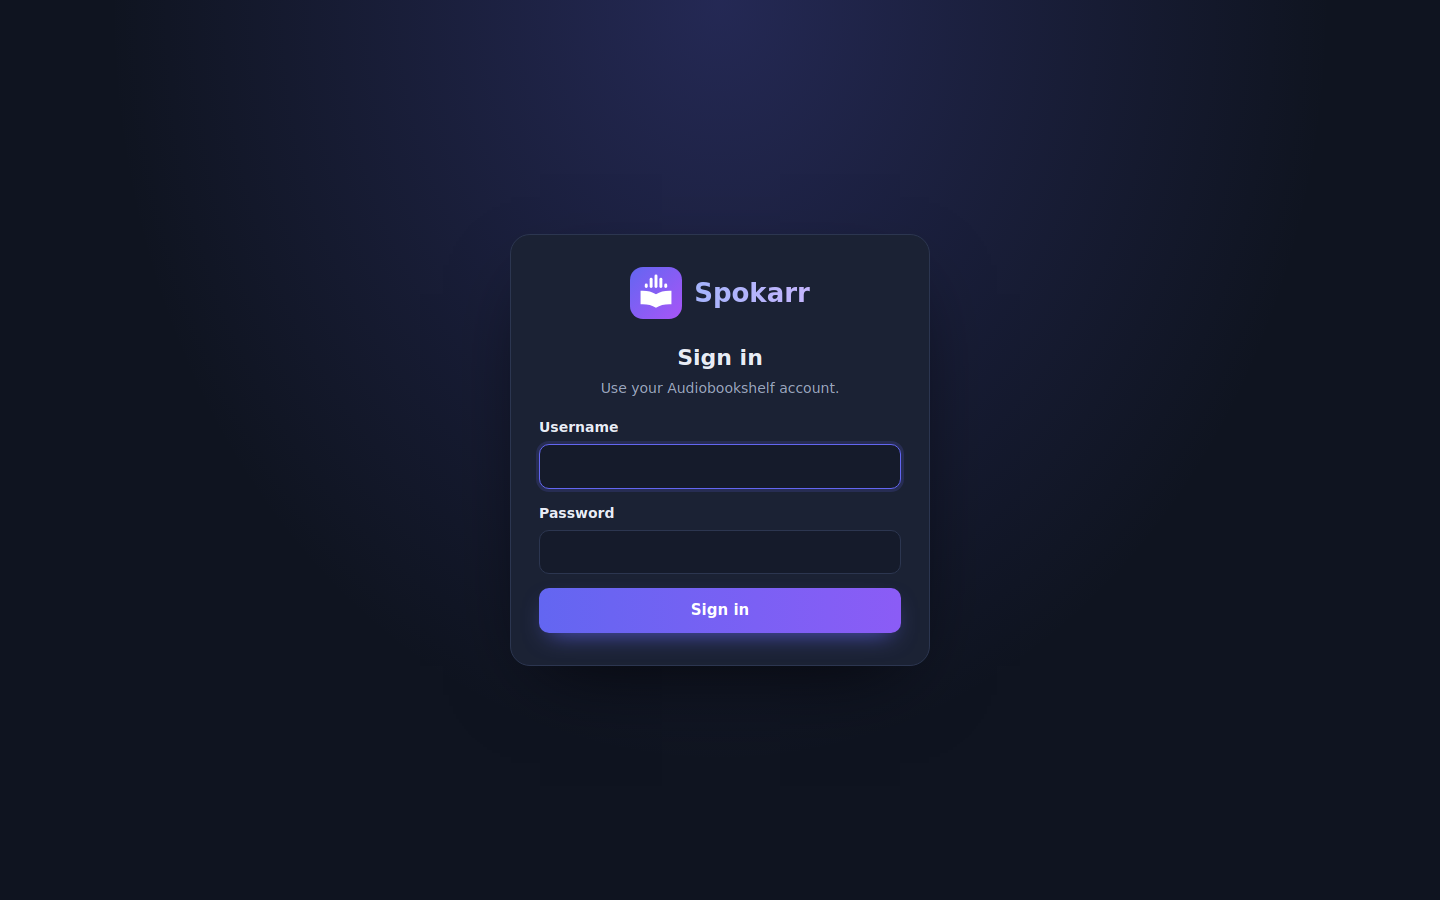
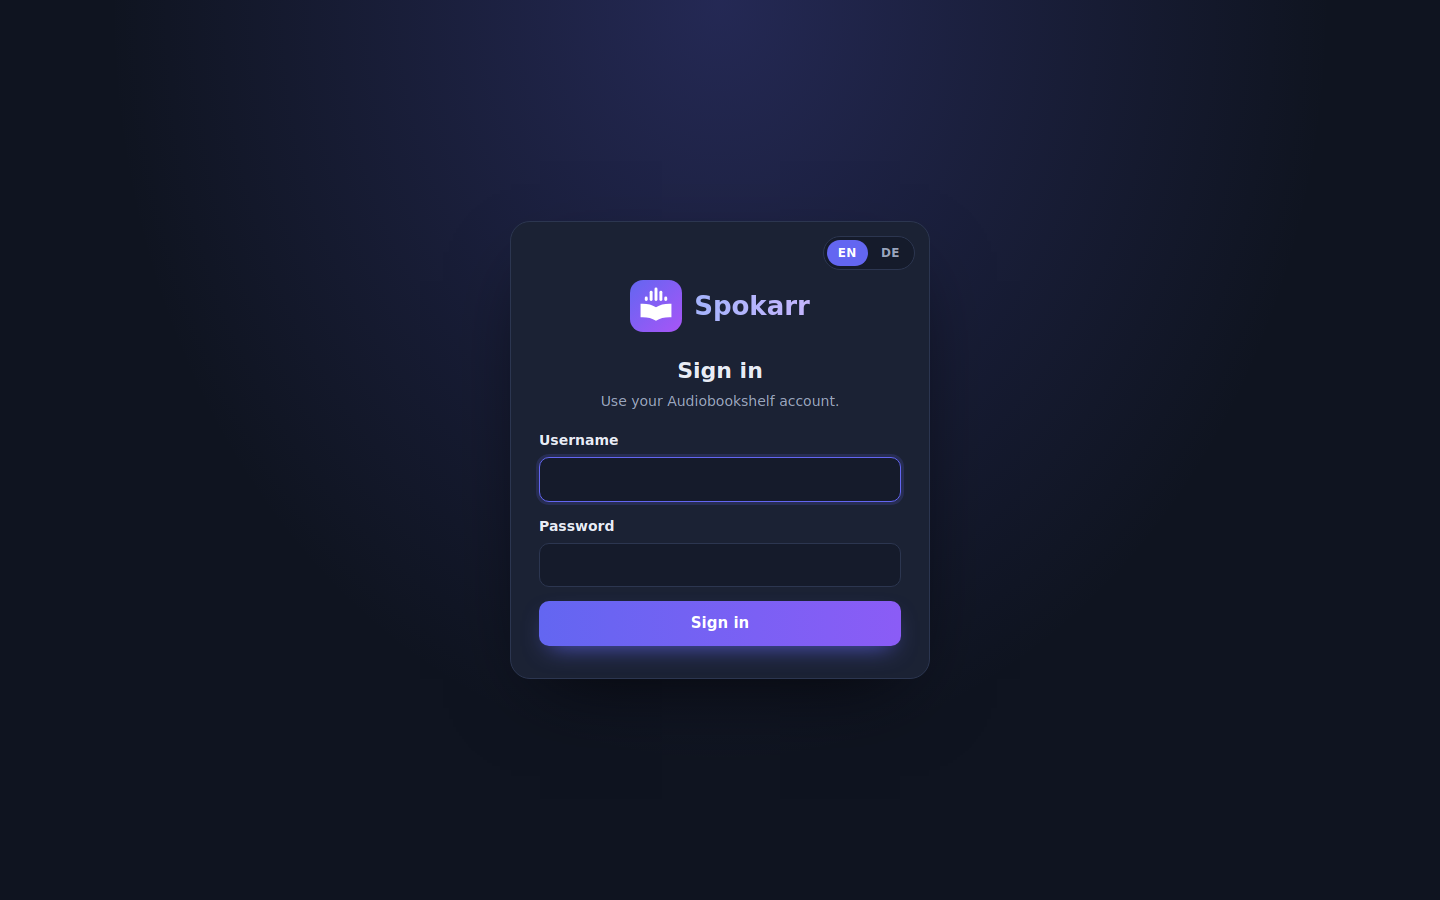
README: screenshots of the 0.8.0 interface, invite link on a phone
Claude-Session: https://claude.ai/code/session_0119GDKRhYaxcfEeBUjCAgEy

Changed region(s): [[0.375, 0.28, 0.625, 0.5911], [0.375, 0.6533, 0.625, 0.7778], [0.5625, 0.2489, 0.625, 0.3111]]

diff --git a/public/style.css b/public/style.css
@@ -428,6 +428,6 @@ details.advanced .muted { font-size: 13px; margin: 0 0 12px; }
 .indexer-head .toggle .switch { margin-top: 0; }
 .kv.plain a { color: #c7d2fe; text-decoration: underline; text-decoration-color: var(--dim); text-underline-offset: 3px; }
 .kv.plain a:hover { color: #fff; text-decoration-color: var(--accent); }
-.auth-card .auth-brand { margin-top: 8px; }
+.auth-card .auth-brand { margin-top: 26px; }
 .settings-section .indexer-head h2 { margin: 0; }
 .settings-section .indexer-head .toggle { padding: 0; margin: 0 0 0 auto; }

diff --git a/README.md b/README.md
@@ -86,19 +86,21 @@ and hands the finished book to Audiobookshelf – already matched, with cover, c
 | Discover | Book details |
 |---|---|
 | ![Discover page](docs/screenshots/discover.png) | ![Book details with approval](docs/screenshots/book.png) |
-| **Requests** | **Users** |
-| ![Requests with filters](docs/screenshots/requests.png) | ![User management](docs/screenshots/users.png) |
+| **Requests** | **Users and invite links** |
+| ![Requests with filters](docs/screenshots/requests.png) | ![User management with invite links](docs/screenshots/users.png) |
 | **Prowlarr and indexers** | **Download clients** |
-| ![Indexer settings](docs/screenshots/settings.png) | ![SABnzbd and qBittorrent settings](docs/screenshots/settings-downloads.png) |
+| ![Indexer settings](docs/screenshots/settings.png) | ![SABnzbd, NZBGet, qBittorrent and Transmission settings](docs/screenshots/settings-downloads.png) |
 | **Notifications** | **Sign in with Audiobookshelf** |
 | ![Discord and ntfy notifications](docs/screenshots/settings-notifications.png) | ![Sign in with your Audiobookshelf account](docs/screenshots/login.png) |
 
 <p align="center">
-  <img src="docs/screenshots/mobile-discover.png" width="240" alt="Discover on a phone">
+  <img src="docs/screenshots/mobile-discover.png" width="200" alt="Discover on a phone">
   &nbsp;
-  <img src="docs/screenshots/mobile-book.png" width="240" alt="Book on a phone">
+  <img src="docs/screenshots/mobile-book.png" width="200" alt="Book on a phone">
   &nbsp;
-  <img src="docs/screenshots/mobile-requests.png" width="240" alt="Requests on a phone">
+  <img src="docs/screenshots/mobile-requests.png" width="200" alt="Requests on a phone">
+  &nbsp;
+  <img src="docs/screenshots/mobile-invite.png" width="200" alt="Creating an account from an invite link">
 </p>
 
 ## How it works
